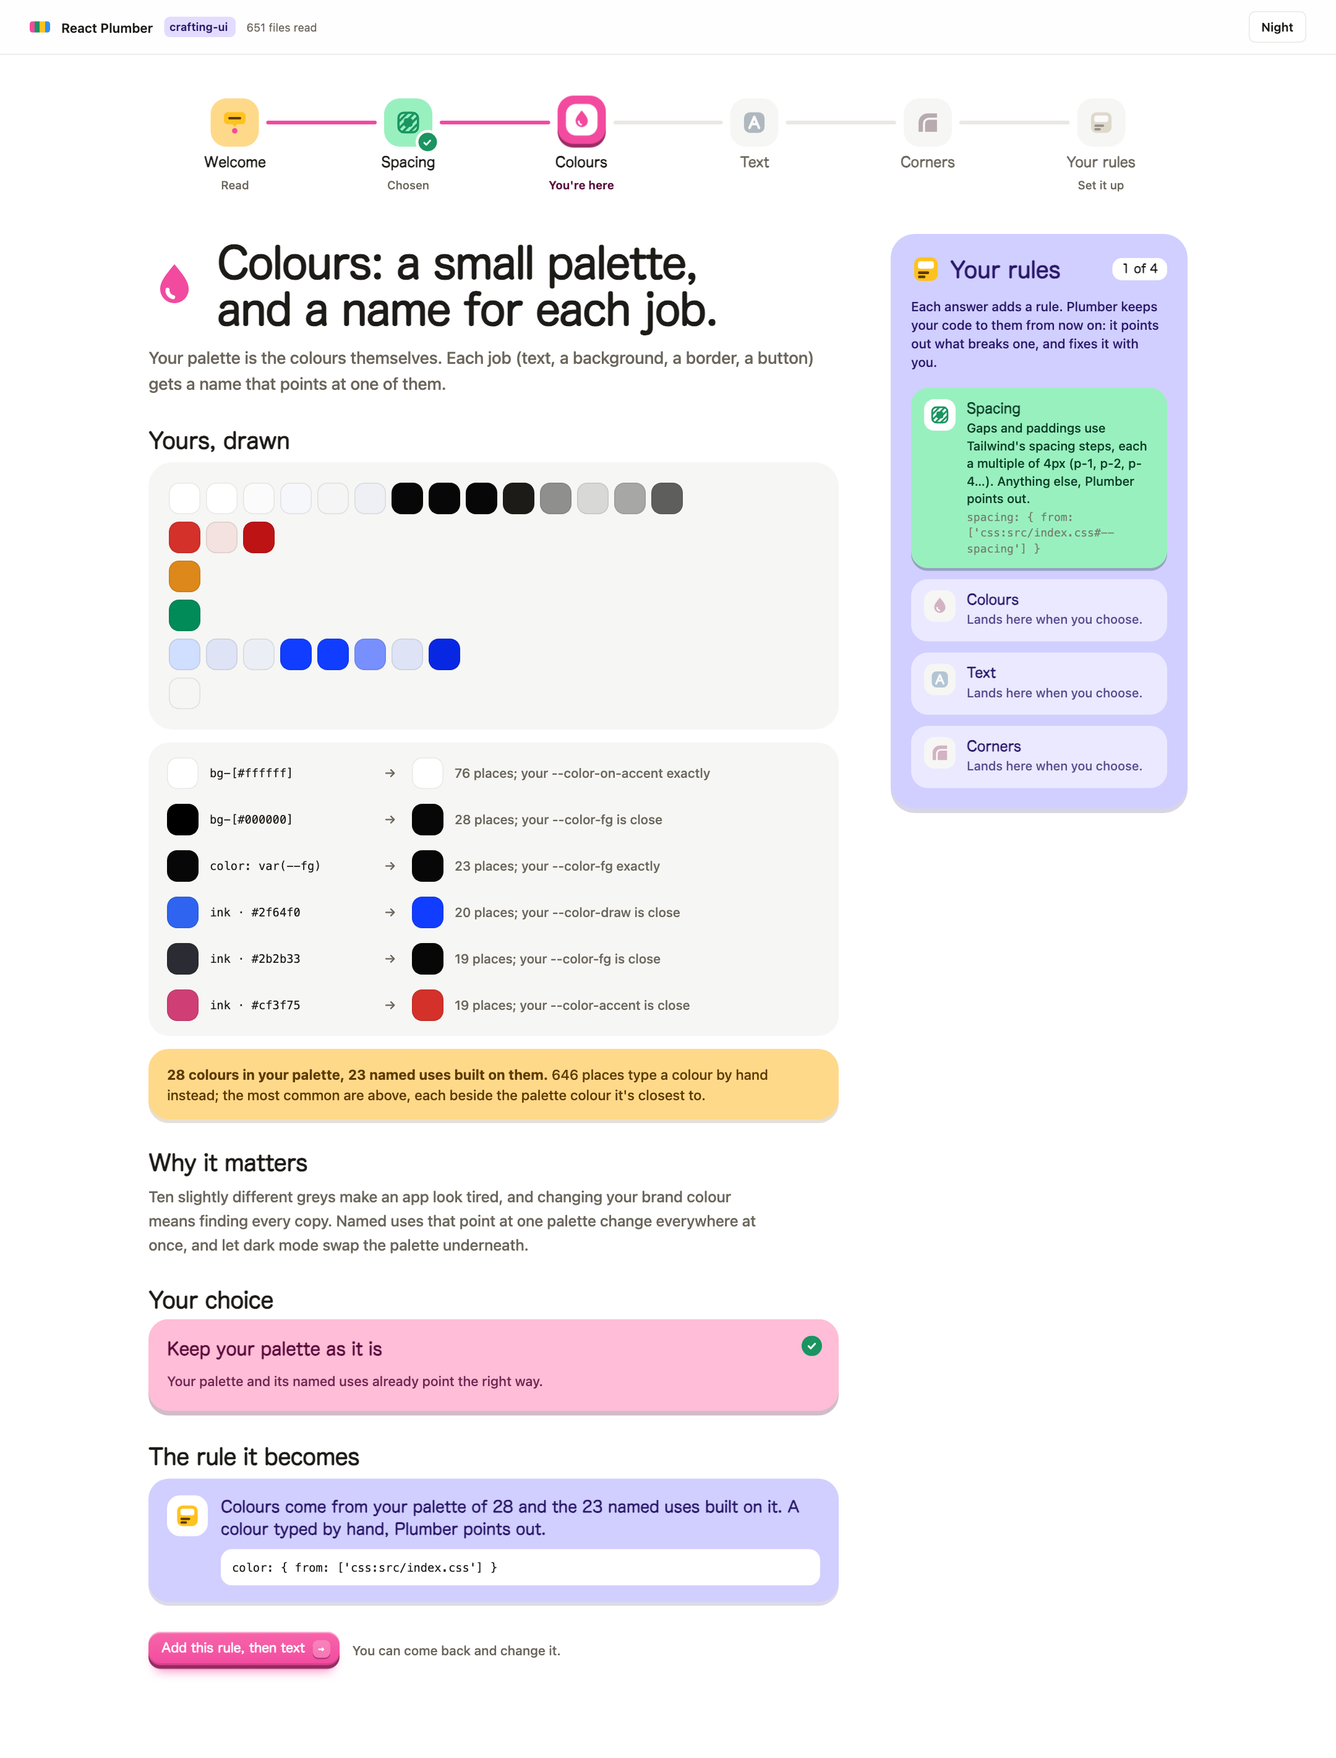
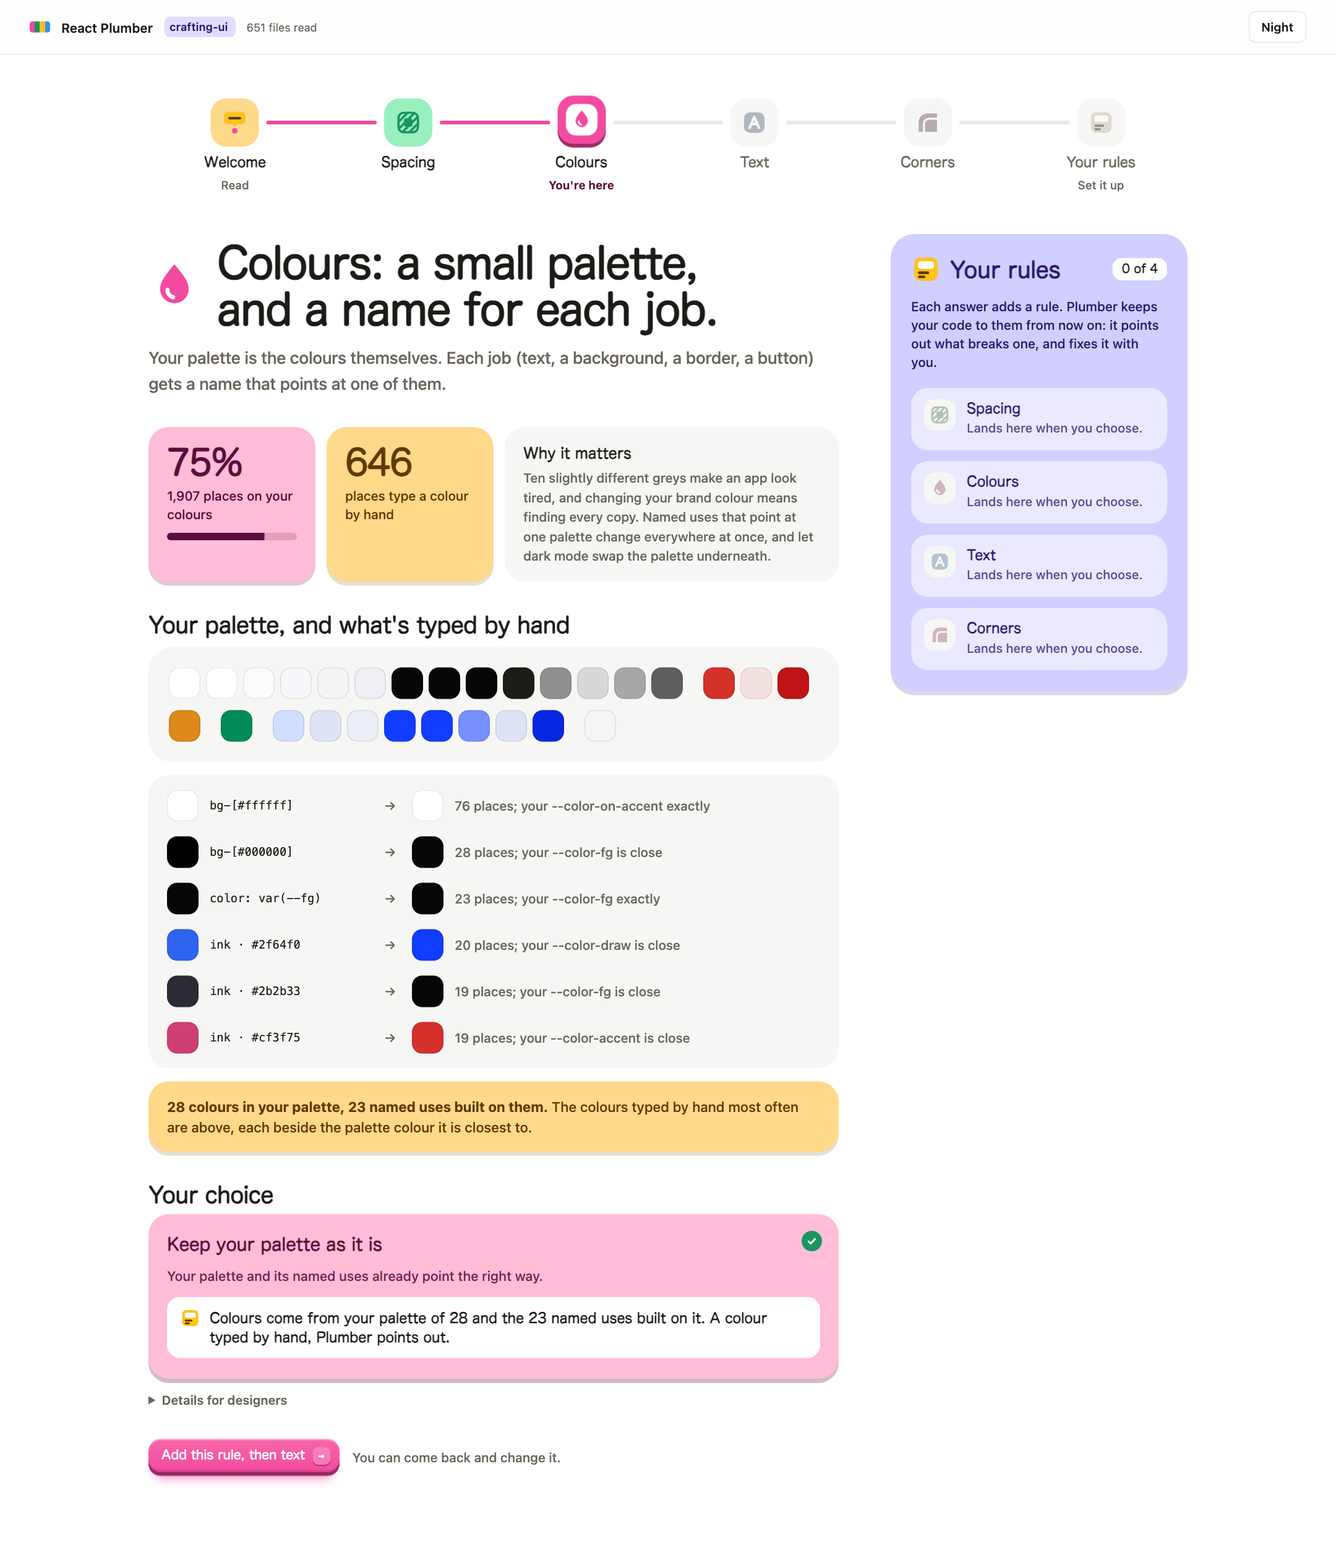
feat(onboarding): each step leads with the problem, draws it once, and shows the rule inside the choice

diff --git a/overlay/src/lesson.js b/overlay/src/lesson.js
@@ -121,6 +121,44 @@ const LESSON_CSS = `
   .notice b { font-weight: 700; }
   .notice code { font: 500 13px/18px var(--pl-mono); }
 
+  /* the problem first: the share on your steps (in the step's colour), the count typed by hand (butter), and why */
+  .today { display: grid; grid-template-columns: minmax(0, 1fr) minmax(0, 1fr) minmax(0, 2fr); gap: 12px; }
+  .today .stat { display: grid; align-content: start; gap: 6px; padding: 18px 20px; border-radius: 22px; font: 500 14px/20px var(--pl-sans); }
+  .today .on { background: var(--hf); color: var(--hi); box-shadow: 0 4px 0 color-mix(in oklab, var(--hi) 22%, transparent); }
+  .today .hand { background: var(--pl-butter-face); color: var(--pl-butter-ink); box-shadow: 0 4px 0 color-mix(in oklab, var(--pl-butter-ink) 16%, transparent); }
+  .today .big { font: var(--pl-round-w, 750) 38px/40px var(--pl-round); letter-spacing: -0.02em; font-variant-numeric: tabular-nums; }
+  .today .bar { display: flex; height: 8px; margin-top: 4px; border-radius: 4px; overflow: hidden; background: color-mix(in oklab, var(--hi) 18%, transparent); }
+  .today .bar i { background: var(--hi); }
+  .today .whyit { padding: 18px 20px; border-radius: 22px; background: var(--pl-paper-2); }
+  .today .whyit b { display: block; margin-bottom: 6px; font: var(--pl-round-w, 700) 16px/20px var(--pl-round); color: var(--pl-ink); }
+  .today .whyit p { margin: 0; font: 500 14px/21px var(--pl-sans); color: var(--pl-ink-2); }
+  @media (max-width: 760px) { .today { grid-template-columns: 1fr 1fr; } .today .whyit { grid-column: 1 / -1; } }
+
+  /* the chosen block says the rule it becomes, so the rule is never a separate thing to read */
+  .becomes { display: flex; align-items: flex-start; gap: 10px; padding: 12px 14px; border-radius: 14px; background: var(--pl-cut); color: var(--pl-ink); font: var(--pl-round-w, 650) 15px/21px var(--pl-round); font-style: normal; animation: becomes-in 320ms var(--pl-spring-pop) both; }
+  .becomes .toy { flex: none; width: 22px; height: 22px; }
+  @keyframes becomes-in { from { opacity: 0; translate: 0 4px; } }
+  @media (prefers-reduced-motion: reduce) { .becomes { animation: none; } }
+
+  /* the drawing inside the lesson: the lesson names it, so its own title goes; its key sits small at the top; the
+     step marks are solid, the count lives in the tiles above, and Snap is a quiet toggle in the corner */
+  #gravity .gv-head { padding: 16px 20px 0; }
+  #gravity .gv-head > div:first-child { display: none; }
+  #gravity .gv-key { margin-left: 0; font: 500 13px/18px var(--pl-sans); color: var(--pl-ink-2); }
+  #gravity .gv-head { align-items: center; }
+  #gravity .gv-head .pl-act { margin-left: auto; }
+  #gravity .gv-plot { height: 250px; }
+  #gravity .gv-foot:not(:has(.pl-act)) { display: none; }
+  #gravity .sc-step .ring { box-shadow: none; background: color-mix(in oklab, var(--pl-sky) 30%, var(--pl-paper)); }
+  #gravity .sc-step[data-state="pointed"] .ring { background: color-mix(in oklab, var(--pl-sky) 55%, var(--pl-paper)); }
+  #gravity .sc-step[data-state="pulled"] .ring { background: color-mix(in oklab, var(--pl-mint) 45%, var(--pl-paper)); }
+  #gravity .sc-step .pl-tag { background: var(--pl-paper); color: var(--pl-ink-2); border-radius: 6px; padding: 1px 6px; font: 600 12px/16px var(--pl-sans); }
+  #gravity .gv-foot { justify-content: flex-end; padding: 0 16px 16px; }
+  #gravity .gv-foot .sc-count { display: none; }
+  #gravity .gv-foot .pl-act { height: 34px; padding: 0 14px; border-radius: 12px; font: 650 13.5px/1 var(--pl-sans); }
+  #gravity .gv-empty { font: var(--pl-round-w, 700) 20px/26px var(--pl-round); color: var(--pl-ink); }
+  #gravity .gv-empty small { font: 500 14px/20px var(--pl-sans); color: var(--pl-ink-2); }
+
   /* the drawing sits on the inset tone, like the design site's shelves: no outline, no shadow */
   #gravity .gv { border: 0; border-radius: 26px; background: var(--pl-paper-2); box-shadow: none; }
   #gravity .gv-foot { border-top: 0; }
@@ -148,7 +186,7 @@ const LESSON_CSS = `
   .steps i.twice { background: var(--pl-butter); }
   .steps .chip { width: 26px; height: 26px; }
 
-  .steps.aa { align-items: baseline; gap: 10px; flex-wrap: wrap; }
+  .steps.aa { min-height: 0; align-items: baseline; gap: 10px; flex-wrap: wrap; }
   .steps.aa span { font-family: var(--pl-sans); font-weight: 600; line-height: 1; color: var(--pl-sky); }
   .steps.aa span.twice { color: var(--pl-butter-line); }
   .steps.arcs { align-items: flex-end; gap: 10px; }
@@ -156,7 +194,7 @@ const LESSON_CSS = `
   .steps.arcs i.twice { border-color: var(--pl-butter-line); }
   /* colours: the palette as swatches by hue on the inset tone, and colours typed by hand beside the palette colour
      they're closest to */
-  .palette { display: grid; gap: 8px; padding: 22px; border-radius: 26px; background: var(--pl-paper-2); }
+  .palette { display: flex; flex-wrap: wrap; align-items: center; gap: 12px 22px; padding: 22px; border-radius: 26px; background: var(--pl-paper-2); }
   .palette .hue { display: flex; flex-wrap: wrap; gap: 6px; }
   .palette .later { font: 500 13px/18px var(--pl-sans); color: var(--pl-ink-2); }
   .chip { width: 34px; height: 34px; border-radius: 11px; box-shadow: inset 0 0 0 1px color-mix(in oklab, var(--pl-ink) 10%, transparent); }
@@ -332,7 +370,7 @@ export function mountLesson(host, data, { post } = {}) {
     const done = ORDER.filter((id) => !['welcome', 'rules'].includes(id) && state.decided.has(id));
     return `<aside class="rules" aria-live="polite"><h3><i class="toy">${toyOf('card')}</i>Your rules<span class="count">${done.length} of 4</span></h3>
       <p>Each answer adds a rule. Plumber keeps your code to them from now on: it points out what breaks one, and fixes it with you.</p>
-      <ol>${done.map((id) => { const l = ruleOf(id), sc = SCREENS.find((x) => x.id === id); return `<li class="${id === state.fresh ? 'fresh' : ''}" style="--hf: var(${HUES[sc.hue][0]}); --hi: var(${HUES[sc.hue][1]})"><span class="plate"><i class="toy">${toyOf(sc.toy)}</i></span><b>${esc(sc.name)}</b><span>${esc(l.plain)}</span><code>${esc(l.code)}</code></li>`; }).join('')}
+      <ol>${done.map((id) => { const l = ruleOf(id), sc = SCREENS.find((x) => x.id === id); return `<li class="${id === state.fresh ? 'fresh' : ''}" style="--hf: var(${HUES[sc.hue][0]}); --hi: var(${HUES[sc.hue][1]})"><span class="plate"><i class="toy">${toyOf(sc.toy)}</i></span><b>${esc(sc.name)}</b><span>${esc(l.plain)}</span></li>`; }).join('')}
         ${SCREENS.filter((x) => !['welcome', 'rules'].includes(x.id) && !state.decided.has(x.id)).map((x) => `<li class="empty"><span class="plate"><i class="toy">${toyOf(x.toy)}</i></span><b>${esc(x.name)}</b><span>Lands here when you choose.</span></li>`).join('')}</ol></aside>`;
   };
 
@@ -377,34 +415,46 @@ export function mountLesson(host, data, { post } = {}) {
     const keepVals = m.values.length ? m.values : (data[m.spec.data]?.steps ?? []).map((x) => x.px).filter((v, i, a) => a.indexOf(v) === i).sort((a, b) => a - b);
     // nothing to keep: the choice says so, with the command that drafts steps from the sizes the code uses
     const skipLine = `Your theme has no ${esc(m.spec.gravity.sizes)} yet. To draft them from the sizes your code already uses, run <code>${esc(data.runner ?? 'npx')} plumber propose --family ${m.family} --write</code>, then open this page again.`;
+    const d = data[m.spec.data] ?? { steps: [], strays: [] }, onSteps = d.steps.reduce((n, x) => n + x.uses, 0);
+    const lists = m.lanes.length > 1 ? `<div class="notice"><span><b>You have ${m.lanes.length} separate lists of ${m.spec.nouns}, and they repeat each other.</b> ${m.twice.length ? `${m.twice.join(', ')} each appear in more than one list under different names (yellow in the choices).` : ''}</span></div>` : '';
+    const chosen = (k) => state.choice[m.family] === k ? `<em class="becomes"><i class="toy">${toyOf('card')}</i>${esc(rule.plain)}</em>` : '';
     return `<section class="screen" style="--hf: var(${HUES[s.hue][0]}); --hi: var(${HUES[s.hue][1]})">${face(s, m.spec.title, m.spec.line)}
       <div class="body">
-        <div class="part"><h3>Yours, drawn</h3><div id="gravity"></div>${notice.length ? `<div class="notice">${notice.map((n) => `<span>${n}</span>`).join('')}</div>` : ''}</div>
-        <div class="part"><h3>Why it matters</h3><p>${m.spec.why}</p></div>
+        ${today(onSteps, m.byHand, `on your ${m.spec.gravity.sizes}`, `${m.byHand === 1 ? 'place types a' : 'places type a'} ${m.spec.noun} by hand`, m.spec.why)}
+        <div class="part"><h3>Where they land</h3><div id="gravity"></div>${lists}</div>
         <div class="part"><h3>Your choice</h3><div class="choices" role="radiogroup" aria-label="${esc(s.name)}">
-          ${m.needed ? `<button type="button" class="choice" role="radio" aria-checked="${state.choice[m.family] === 'tidy'}" data-pick="${m.family}:tidy"><b>One list of ${m.one.steps.length}<span class="rec">Suggested</span></b>${preview(m.family, m.one.steps.map((x) => x.px))}<span>Your lists merged into one, with Tailwind's name. The old names keep working, pointing at the new ones.</span></button>` : ''}
-          <button type="button" class="choice" role="radio" aria-checked="${state.choice[m.family] === 'keep'}" data-pick="${m.family}:keep"><b>${bare(m) ? 'Skip it for now' : 'Keep what you have'}</b>${bare(m) ? '' : preview(m.family, keepVals, m.twice)}<span>${bare(m) ? skipLine : m.lanes.length > 1 ? `All ${m.lanes.length} lists stay as they are. You can tidy them later.` : `Your ${m.spec.nouns} stay as they are.`}</span></button>
-        </div></div>
-        <div class="part"><h3>The rule it becomes</h3><div class="rule"><span class="plate"><i class="toy">${toyOf('card')}</i></span><p>${esc(rule.plain)}</p><code>${esc(rule.code)}</code></div>
-          <details class="more"><summary>Details for designers</summary><p>${m.lanes.map((l) => `${esc(l.name)} in ${esc(l.file)}: ${l.values.join(', ')}px`).join('<br>') || 'No lists of steps; single tokens only.'}${m.one ? `<br>Merged: ${m.one.steps.map((x) => `${esc(x.name)} ${esc(x.value)}`).join(', ')}` : ''}</p></details></div>
+          ${m.needed ? `<button type="button" class="choice" role="radio" aria-checked="${state.choice[m.family] === 'tidy'}" data-pick="${m.family}:tidy"><b>One list of ${m.one.steps.length}<span class="rec">Suggested</span></b>${preview(m.family, m.one.steps.map((x) => x.px))}<span>Your lists merged into one, with Tailwind's name. The old names keep working, pointing at the new ones.</span>${chosen('tidy')}</button>` : ''}
+          <button type="button" class="choice" role="radio" aria-checked="${state.choice[m.family] === 'keep'}" data-pick="${m.family}:keep"><b>${bare(m) ? 'Skip it for now' : 'Keep what you have'}</b>${bare(m) ? '' : preview(m.family, keepVals, m.twice)}<span>${bare(m) ? skipLine : m.lanes.length > 1 ? `All ${m.lanes.length} lists stay as they are. You can tidy them later.` : `Your ${m.spec.nouns} stay as they are.`}</span>${chosen('keep')}</button>
+        </div>
+          <details class="more"><summary>Details for designers</summary><p><code>${esc(rule.code)}</code><br>${m.lanes.map((l) => `${esc(l.name)} in ${esc(l.file)}: ${l.values.join(', ')}px`).join('<br>') || 'No lists of steps; single tokens only.'}${m.one ? `<br>Merged: ${m.one.steps.map((x) => `${esc(x.name)} ${esc(x.value)}`).join(', ')}` : ''}</p></details></div>
         ${nav(s.id)}
       </div></section>`;
   };
 
+  // the problem first: how much of this kind is on your steps, how much is typed by hand, and why that matters
+  const today = (on, hand, onWords, handWords, why) => {
+    const all = on + hand, share = all ? Math.round((on / all) * 100) : null;
+    return `<div class="today">
+      <div class="stat on"><span class="big">${share === null ? '–' : `${share}%`}</span><span>${all ? `${nf.format(on)} places ${onWords}` : 'Nothing found yet'}</span><span class="bar" aria-hidden="true"><i style="width: ${share ?? 0}%"></i></span></div>
+      <div class="stat hand"><span class="big">${nf.format(hand)}</span><span>${hand ? handWords : `None typed by hand`}</span></div>
+      <div class="whyit"><b>Why it matters</b><p>${why}</p></div></div>`;
+  };
+
   const colourScreen = () => {
-    const s = SCREENS[2], rule = colourRule();
+    const s = SCREENS[2], rule = colourRule(), onColours = (data.colour?.steps ?? []).reduce((n, x) => n + x.uses, 0);
+    const chosen = (k) => state.choice.color === k ? `<em class="becomes"><i class="toy">${toyOf('card')}</i>${esc(rule.plain)}</em>` : '';
     const chip = (v, title) => `<i class="chip" style="background: ${esc(v)}" title="${esc(title)}"></i>`;
     return `<section class="screen" style="--hf: var(${HUES[s.hue][0]}); --hi: var(${HUES[s.hue][1]})">${face(s, 'Colours: a small palette, and a name for each job.', 'Your palette is the colours themselves. Each job (text, a background, a border, a button) gets a name that points at one of them.')}
       <div class="body">
-        <div class="part"><h3>Yours, drawn</h3><div class="palette">${col.hues.slice(0, 12).map((h) => `<div class="hue">${h.map((p) => chip(p.value, `${p.name}: ${p.value}`)).join('')}</div>`).join('')}${col.hues.length > 12 ? `<span class="later">and ${col.hues.length - 12} more</span>` : ''}</div>
+        ${today(onColours, col.byHand, 'on your colours', col.byHand === 1 ? 'place types a colour by hand' : 'places type a colour by hand', 'Ten slightly different greys make an app look tired, and changing your brand colour means finding every copy. Named uses that point at one palette change everywhere at once, and let dark mode swap the palette underneath.')}
+        <div class="part"><h3>Your palette, and what's typed by hand</h3><div class="palette">${col.hues.slice(0, 12).map((h) => `<div class="hue">${h.map((p) => chip(p.value, `${p.name}: ${p.value}`)).join('')}</div>`).join('')}${col.hues.length > 12 ? `<span class="later">and ${col.hues.length - 12} more</span>` : ''}</div>
           ${col.typed.length ? `<div class="typed">${col.typed.slice(0, 6).map((t) => { const near = col.palette.find((p) => p.name.slice(2) === t.near) ?? col.roles.find((p) => p.name.slice(2) === t.near); return `<div class="t">${chip(t.css, t.css)}<code>${esc(asWritten(t.written[0]?.text, t.css))}</code><span>→</span>${near ? chip(near.value, near.name) : '<i></i>'}<span>${nf.format(t.places)} ${t.places === 1 ? 'place' : 'places'}${near ? `; your ${esc(near.name)}${t.distance === 0 ? ' exactly' : ' is close'}` : ''}</span></div>`; }).join('')}</div>` : ''}
-          <div class="notice"><span><b>${col.palette.length} ${col.palette.length === 1 ? 'colour' : 'colours'} in your palette, ${col.roles.length} named ${col.roles.length === 1 ? 'use' : 'uses'} built on ${col.palette.length === 1 ? 'it' : 'them'}.</b>${col.byHand ? ` ${nf.format(col.byHand)} ${col.byHand === 1 ? 'place types' : 'places type'} a colour by hand instead; the most common are above, each beside the palette colour it's closest to.` : ''}</span>${col.fixable.length ? `<span><b>${col.fixable.length} named ${col.fixable.length === 1 ? 'use copies' : 'uses copy'} a palette colour</b> instead of pointing at it, so ${col.fixable.length === 1 ? 'it won’t follow' : 'they won’t follow'} if the palette changes.</span>` : ''}</div></div>
-        <div class="part"><h3>Why it matters</h3><p>Ten slightly different greys make an app look tired, and changing your brand colour means finding every copy. Named uses that point at one palette change everywhere at once, and let dark mode swap the palette underneath.</p></div>
+          <div class="notice"><span><b>${col.palette.length} ${col.palette.length === 1 ? 'colour' : 'colours'} in your palette, ${col.roles.length} named ${col.roles.length === 1 ? 'use' : 'uses'} built on ${col.palette.length === 1 ? 'it' : 'them'}.</b>${col.typed.length ? ' The colours typed by hand most often are above, each beside the palette colour it is closest to.' : ''}</span>${col.fixable.length ? `<span><b>${col.fixable.length} named ${col.fixable.length === 1 ? 'use copies' : 'uses copy'} a palette colour</b> instead of pointing at it, so ${col.fixable.length === 1 ? 'it won’t follow' : 'they won’t follow'} if the palette changes.</span>` : ''}</div></div>
         <div class="part"><h3>Your choice</h3><div class="choices" role="radiogroup" aria-label="Colours">
-          ${col.fixable.length ? `<button type="button" class="choice" role="radio" aria-checked="${state.choice.color === 'point'}" data-pick="color:point"><b>Point the copies at the palette<span class="rec">Suggested</span></b><div class="steps">${col.fixable.slice(0, 8).map((h) => chip(h.value, `${h.name} → ${h.match.name}`)).join('')}</div><span>${col.fixable.length} named ${col.fixable.length === 1 ? 'use stops' : 'uses stop'} copying and ${col.fixable.length === 1 ? 'points' : 'point'} at the palette. Nothing looks different today.</span></button>` : ''}
-          <button type="button" class="choice" role="radio" aria-checked="${state.choice.color === 'keep'}" data-pick="color:keep"><b>${col.fixable.length ? 'Leave them' : 'Keep your palette as it is'}</b><span>${col.fixable.length ? 'The copies stay copies.' : 'Your palette and its named uses already point the right way.'}</span></button>
-        </div></div>
-        <div class="part"><h3>The rule it becomes</h3><div class="rule"><span class="plate"><i class="toy">${toyOf('card')}</i></span><p>${esc(rule.plain)}</p><code>${esc(rule.code)}</code></div></div>
+          ${col.fixable.length ? `<button type="button" class="choice" role="radio" aria-checked="${state.choice.color === 'point'}" data-pick="color:point"><b>Point the copies at the palette<span class="rec">Suggested</span></b><div class="steps">${col.fixable.slice(0, 8).map((h) => chip(h.value, `${h.name} → ${h.match.name}`)).join('')}</div><span>${col.fixable.length} named ${col.fixable.length === 1 ? 'use stops' : 'uses stop'} copying and ${col.fixable.length === 1 ? 'points' : 'point'} at the palette. Nothing looks different today.</span>${chosen('point')}</button>` : ''}
+          <button type="button" class="choice" role="radio" aria-checked="${state.choice.color === 'keep'}" data-pick="color:keep"><b>${col.fixable.length ? 'Leave them' : 'Keep your palette as it is'}</b><span>${col.fixable.length ? 'The copies stay copies.' : 'Your palette and its named uses already point the right way.'}</span>${chosen('keep')}</button>
+        </div>
+          <details class="more"><summary>Details for designers</summary><p><code>${esc(rule.code)}</code></p></details></div>
         ${nav('colour')}
       </div></section>`;
   };
@@ -436,6 +486,8 @@ export function mountLesson(host, data, { post } = {}) {
       for (const st of d.steps) { const k = `${st.px}px`, had = bySize.get(k); bySize.set(k, { name: k, px: st.px, uses: (had?.uses ?? 0) + st.uses }); }
       const named = d.steps.reduce((m, st) => m.set(st.name, `${st.px}px`), new Map());
       new Gravity(g, { steps: [...bySize.values()], strays: d.strays.map((st) => ({ ...st, near: named.get(st.near) ?? st.near })), words: SIZES[sizeFamily].gravity });
+      // in the lesson the snap toggle sits in the drawing's top row, beside its key, so the drawing has no empty footer
+      const snap = g.querySelector('.gv-foot .pl-act'), head = g.querySelector('.gv-head'); if (snap && head) head.append(snap);
     }
     state.fresh = '';
   };

diff --git a/docs/journey.md b/docs/journey.md
@@ -3835,6 +3835,13 @@ Moved to [backlog.md](backlog.md) on 2026-11-12, at the owner's request: one lis
   share of places on your steps (crafting-ui: spacing 85%, colours 75%, text 14%, corners 51%) and how many are typed
   by hand. "Your rules" is a lilac panel with a count ("1 of 4"). The last screen shows each rule as a block in its
   step's colour, the file it writes, and "Set it up" as a green block that lists its three effects.
+- **Third round, inside each step** (the owner: "inherit the style inside each page as well", "the ux / ui and
+  everything give it a thought"): each step was a long column that put the decision at the bottom, with two titles
+  over one drawing, a "why" paragraph nobody reads mid-flow, and the rule as a separate section after the choice. Now
+  each step starts with the problem: the share of places on your steps, the count typed by hand and why it matters,
+  as three tiles. Below them is the drawing under one title, with its key and the Snap toggle in one row, solid step
+  marks and no empty footer. The choice comes last, and the option you pick shows the rule it becomes inside it. The
+  config line moved into Details. The side panel no longer repeats each rule's code.
 - **Found on the way:** on the pink key the colours and corners toys, both pink, vanished. They now sit on a white
   cut-out.
 - **Proof:** screenshots of every step on crafting-ui in `docs/films/onboarding/` (welcome-design-style.png is the
